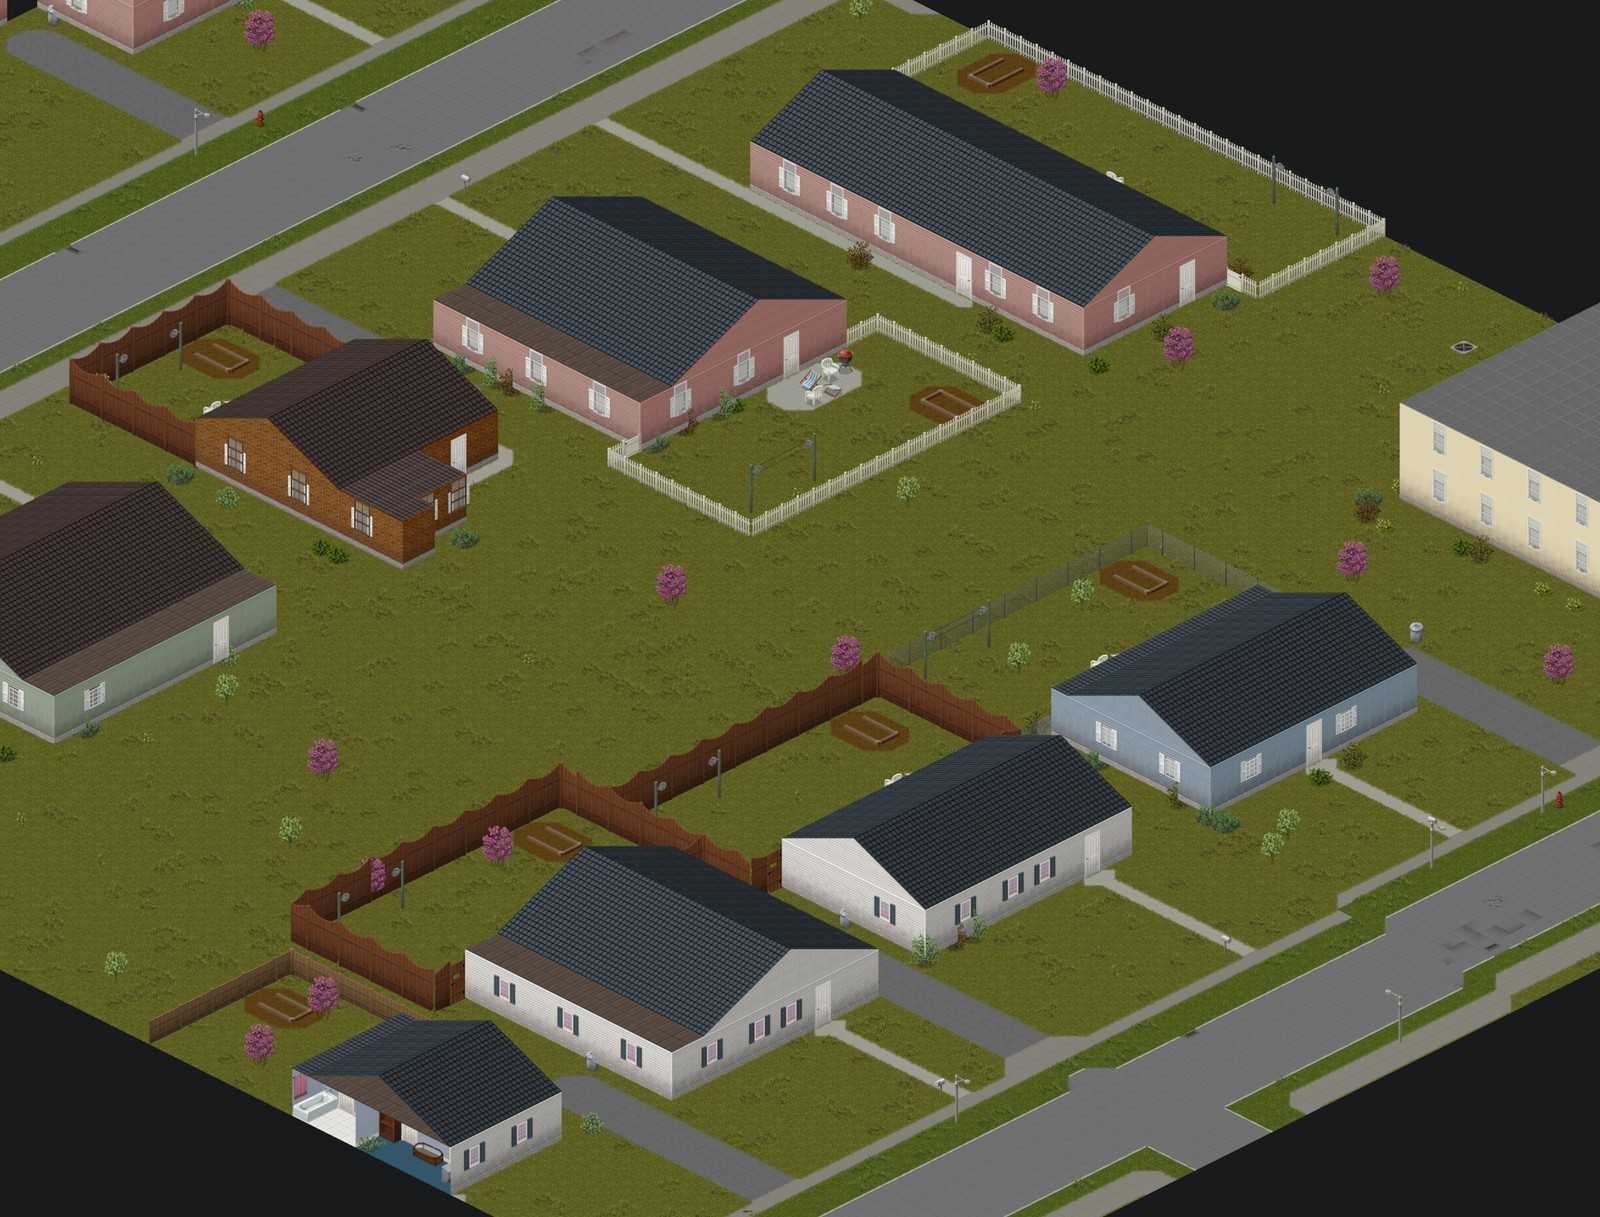
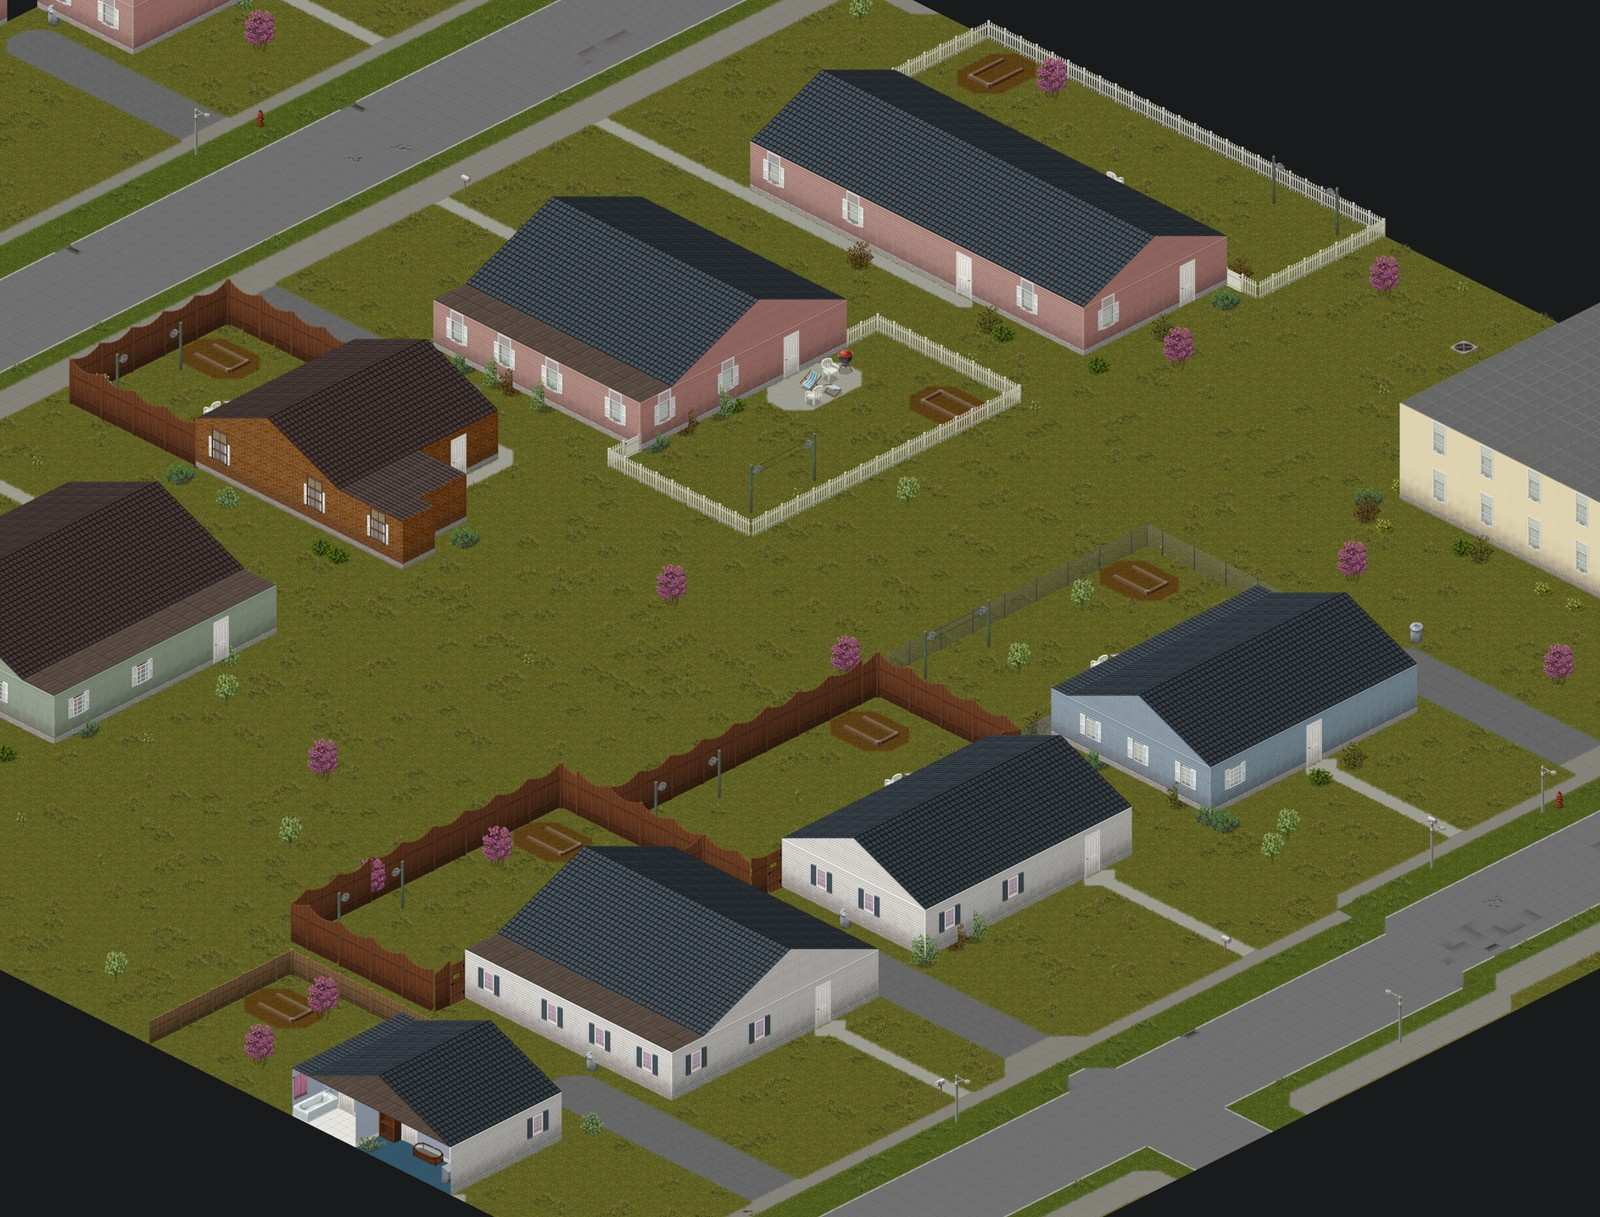
House windows centred on each room's walls, with room for their shutters
Facade-wide bays put two or three windows side by side in one room, two
tiles apart so their shutters overlapped, one jammed against the front door,
and left the rest of the wall blank. Houses now place windows room by room:
evenly spread along each outside wall (one per 3 tiles), moved to the nearest
clear spot when a door or corner is in the way, and kept two tiles clear of
doors and other windows. Other buildings keep their facade bays.

diff --git a/knoxbuild/layout.py b/knoxbuild/layout.py
@@ -1003,9 +1003,13 @@ SHOP_FRONT_KINDS = {"shop", "restaurant"}
 # needs. Elsewhere a room takes whatever its stretch of facade offers - an
 # open office along a glazed wall is not limited to one window.
 HOUSE_LIKE_KINDS = {"house", "barn", "shed", None}
+# A house window per this many tiles of a room's outside wall, and the tiles
+# kept clear either side of a shuttered window (its shutters, and a gap).
+HOUSE_WINDOW_EVERY = 3
+WINDOW_CLEARANCE_SHUTTERED = 2
 # Most windows one room may take, whatever the facade offers it.
 ROOM_WINDOW_CAP = {
-    "bathroom": 1, "storage": 0, "hall": 0, "garage": 0, "shed": 1, "elevator": 0,
+    "bathroom": 1, "storage": 1, "hall": 1, "garage": 0, "shed": 1, "elevator": 0,
     "kitchen": 2, "bedroom": 3, "dining": 3, "office": 2, "livingroom": 5,
     "kidsbedroom": 2, "closet": 0, "laundry": 1,
 }
@@ -1165,11 +1169,58 @@ def _place_windows(building: "Building", kind: str | None) -> None:
 
     for level, storey in enumerate(building.storeys):
         blocked = set(getattr(storey, "wall_pieces", set()))
+        # Shuttered windows need the tile either side for their shutters: a
+        # window two tiles from a door or another window had its shutters
+        # jammed against the frame or overlapping the next one's.
+        clear = WINDOW_CLEARANCE_SHUTTERED if house_like else 1
         for x, y, d in storey.doors:
-            for off in (-1, 0, 1):
+            for off in range(-clear, clear + 1):
                 blocked.add((x + off, y, d) if d == "N" else (x, y + off, d))
+        placed: list[tuple[int, int, str]] = []
+
+        def spaced(x, y, d):
+            for px, py, pd in placed:
+                if pd != d:
+                    continue
+                if d == "N" and py == y and abs(px - x) <= clear:
+                    return False
+                if d == "W" and px == x and abs(py - y) <= clear:
+                    return False
+            return True
+
+        def add(edge):
+            storey.windows.append(edge)
+            placed.append(edge)
+
         taken: dict[int, int] = {}
-        for x, y, d, ix, iy in (ground_bays if level == 0 else bays):
+        if house_like:
+            # A house's windows are placed room by room, centred on each
+            # outside wall and evenly spread along it, as Knox County's are.
+            # Bays laid out for the whole facade put two or three windows
+            # side by side in one room and none along the rest of the wall.
+            for idx, room in enumerate(storey.rooms, 1):
+                if room.is_shaft:
+                    continue
+                cap = ROOM_WINDOW_CAP.get(room.kind, DEFAULT_ROOM_WINDOW_CAP)
+                if room.is_core:
+                    cap = 0
+                runs = sorted(_outside_runs(storey, idx), key=lambda r: -len(r[1]))
+                for _side, wall in runs:
+                    if taken.get(idx, 0) >= cap or len(wall) < MIN_WALL_FOR_WINDOW:
+                        continue
+                    n = max(1, min(cap - taken.get(idx, 0),
+                                   (len(wall) + 1) // HOUSE_WINDOW_EVERY))
+                    for k in range(n):
+                        i = int((k + 0.5) * len(wall) / n)
+                        # The nearest spot to the even spacing that is clear
+                        # of doors, corners and the other windows.
+                        for j in sorted(range(1, len(wall) - 1), key=lambda j: abs(j - i)):
+                            edge = wall[j]
+                            if edge not in blocked and spaced(*edge):
+                                add(edge)
+                                taken[idx] = taken.get(idx, 0) + 1
+                                break
+        for x, y, d, ix, iy in ([] if house_like else (ground_bays if level == 0 else bays)):
             if (x, y, d) in blocked:
                 continue
             idx = storey.grid[iy][ix]
@@ -1184,7 +1235,7 @@ def _place_windows(building: "Building", kind: str | None) -> None:
                 cap = 1 if kind == "apartment" else 0
             if taken.get(idx, 0) >= cap:
                 continue
-            storey.windows.append((x, y, d))
+            add((x, y, d))
             taken[idx] = taken.get(idx, 0) + 1
             if level == 0 and kind in SHOP_FRONT_KINDS and (x, y, d, ix, iy) in glass_set:
                 storey.shop_front.add((x, y, d))
@@ -1201,9 +1252,9 @@ def _place_windows(building: "Building", kind: str | None) -> None:
                 inner = wall[1:-1] if len(wall) >= MIN_WALL_FOR_WINDOW else wall
                 candidates = sorted(inner, key=lambda e: abs(
                     wall.index(e) - len(wall) // 2))
-                spot = next((e for e in candidates if e not in blocked), None)
+                spot = next((e for e in candidates if e not in blocked and spaced(*e)), None)
                 if spot is not None:
-                    storey.windows.append(spot)
+                    add(spot)
                     taken[idx] = 1
                     break
 
